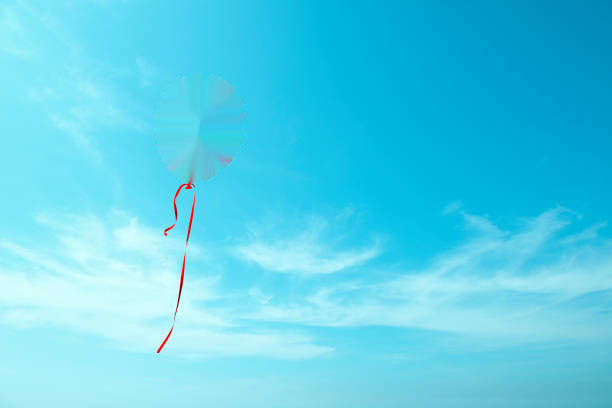
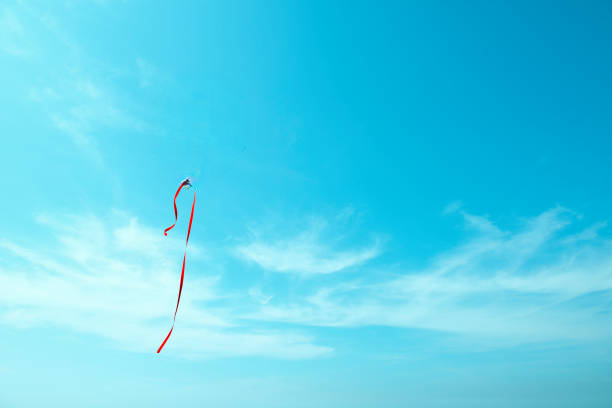
Mask dilate

diff --git a/Mock_pipeline/modules/segmentation/intelligent_scissors.py b/Mock_pipeline/modules/segmentation/intelligent_scissors.py
@@ -101,6 +101,15 @@ class IntelligentScissorsApp:
                 
                 # Tô vùng này màu trắng (255) lên mask toàn cục
                 cv2.fillPoly(self.global_mask, [full_contour], 255)
+                
+                #=========================================================================
+                # Thêm phần mở rộng mask (để đảm bảo ko còn pixel màu đỏ của quả bóng nữa)
+                #=========================================================================
+                kernel = np.ones((5,5), np.uint8)
+                self.global_mask = cv2.dilate(self.global_mask, kernel, iterations=2)
+                print("-> [DEBUG] Mask đã được làm to ra (Dilated) giống Mock Model.")
+                # ========================================================
+                
                 print("-> Đã lưu vùng chọn vào Mask. (Nhấn 'X' để xóa vùng này)")
 
         # Reset trạng thái vẽ để vẽ hình mới (nhưng giữ nguyên global_mask)

diff --git a/Mock_pipeline/main.py b/Mock_pipeline/main.py
@@ -79,7 +79,7 @@ def main():
     # --- CẤU HÌNH LỰA CHỌN THUẬT TOÁN ---
     # use_ai = False  -> Chạy Success Case 1 (Cổ điển - OpenCV)
     # use_ai = True   -> Chạy Success Case 2 (Deep Learning - LaMa)
-    use_ai = False
+    use_ai = True
 
     if use_ai:
         print(">>> Đang khởi tạo AI Model (Case 2: LaMa)...")
